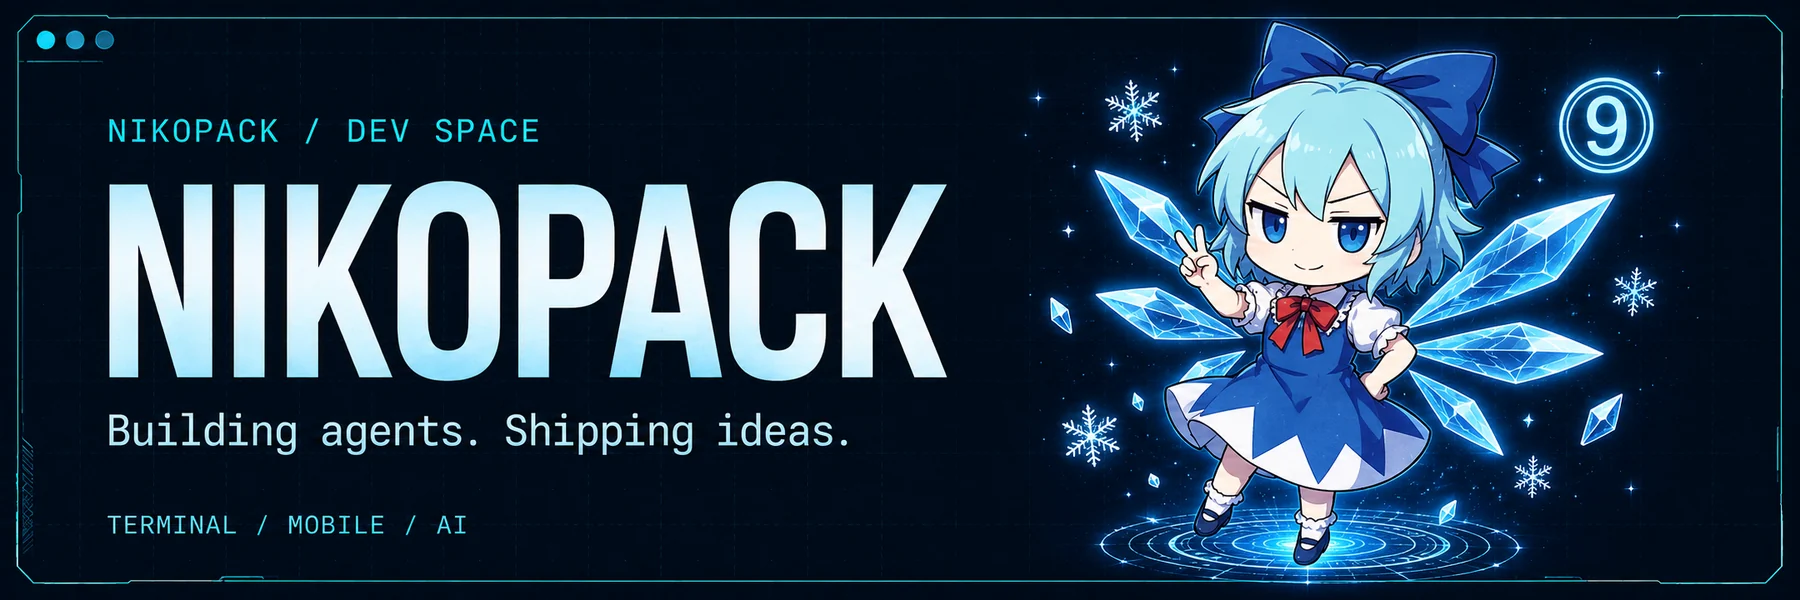
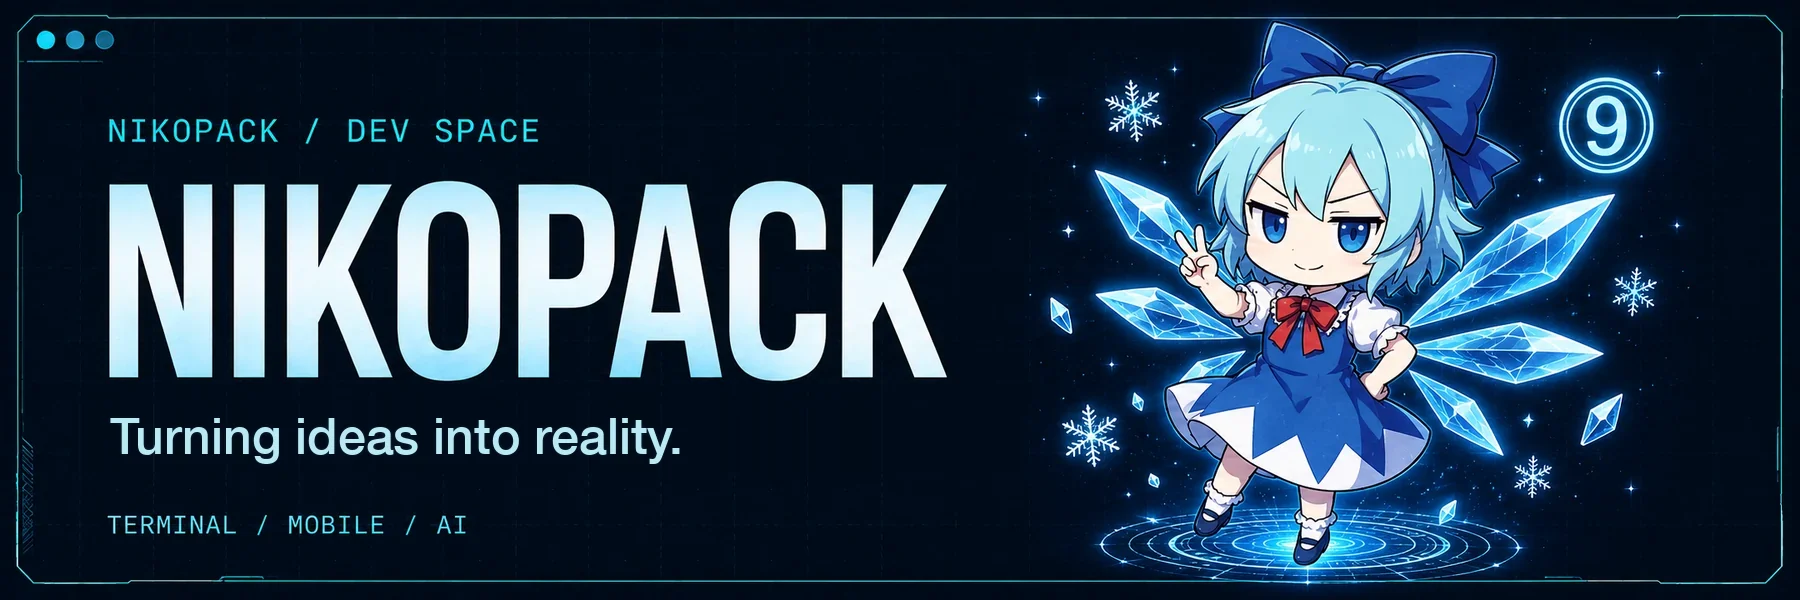
docs: retitle profile copy to turning ideas into reality

Changed region(s): [[0.0622, 0.69, 0.4667, 0.78]]

diff --git a/README.md b/README.md
@@ -1,11 +1,11 @@
 <p align="center">
-  <img src="./banner.webp" alt="NIKOPACK — Building agents. Shipping ideas." width="100%" />
+  <img src="./banner.webp" alt="NIKOPACK — Turning ideas into reality." width="100%" />
 </p>
 
 <p align="center">
   <picture>
-    <source media="(prefers-color-scheme: dark)" srcset="https://readme-typing-svg.demolab.com?font=IBM+Plex+Sans&weight=600&size=22&duration=2800&pause=1400&color=7DD3FC&center=true&vCenter=true&width=620&lines=%E6%8A%8A%E6%83%B3%E6%B3%95%E5%81%9A%E6%88%90%E5%B7%A5%E5%85%B7%EF%BC%8C%E8%AE%A9+Agent+%E8%B5%B0%E8%BF%9B%E5%AE%9E%E9%99%85%E5%B7%A5%E4%BD%9C%E6%B5%81%E3%80%82;Building+agents.+Shipping+ideas." />
-    <img src="https://readme-typing-svg.demolab.com?font=IBM+Plex+Sans&weight=600&size=22&duration=2800&pause=1400&color=0369A1&center=true&vCenter=true&width=620&lines=%E6%8A%8A%E6%83%B3%E6%B3%95%E5%81%9A%E6%88%90%E5%B7%A5%E5%85%B7%EF%BC%8C%E8%AE%A9+Agent+%E8%B5%B0%E8%BF%9B%E5%AE%9E%E9%99%85%E5%B7%A5%E4%BD%9C%E6%B5%81%E3%80%82;Building+agents.+Shipping+ideas." alt="把想法做成工具，让 Agent 走进实际工作流。" />
+    <source media="(prefers-color-scheme: dark)" srcset="https://readme-typing-svg.demolab.com?font=IBM+Plex+Sans&weight=600&size=22&duration=2800&pause=1400&color=7DD3FC&center=true&vCenter=true&width=620&lines=%E8%AE%A9%E6%83%B3%E6%B3%95%E6%88%90%E4%B8%BA%E7%8E%B0%E5%AE%9E;Turning+ideas+into+reality." />
+    <img src="https://readme-typing-svg.demolab.com?font=IBM+Plex+Sans&weight=600&size=22&duration=2800&pause=1400&color=0369A1&center=true&vCenter=true&width=620&lines=%E8%AE%A9%E6%83%B3%E6%B3%95%E6%88%90%E4%B8%BA%E7%8E%B0%E5%AE%9E;Turning+ideas+into+reality." alt="让想法成为现实" />
   </picture>
 </p>
 
